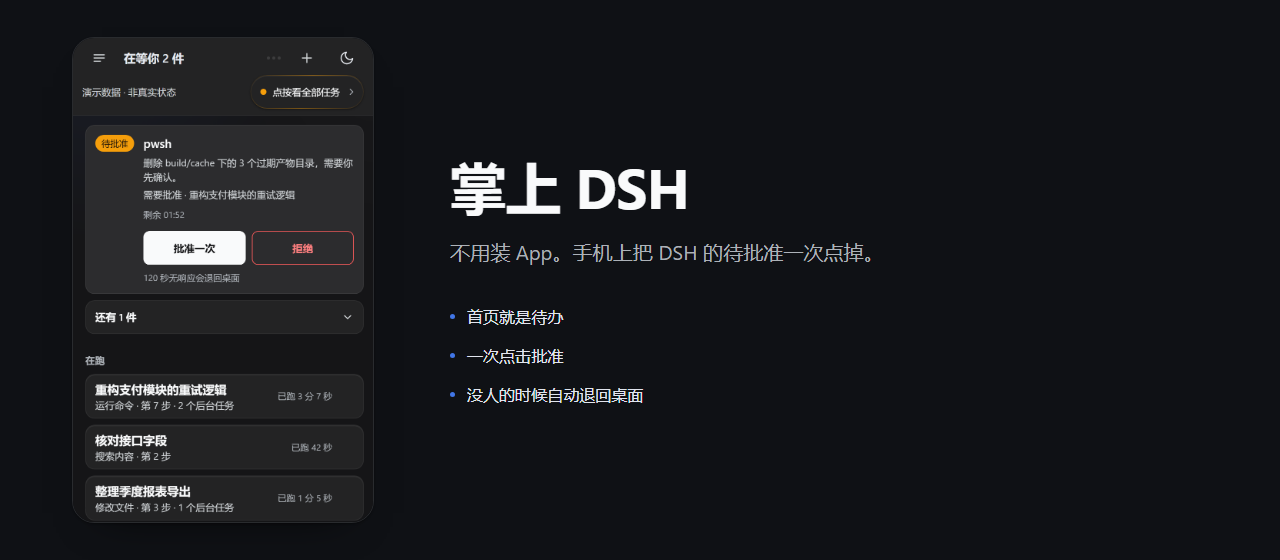
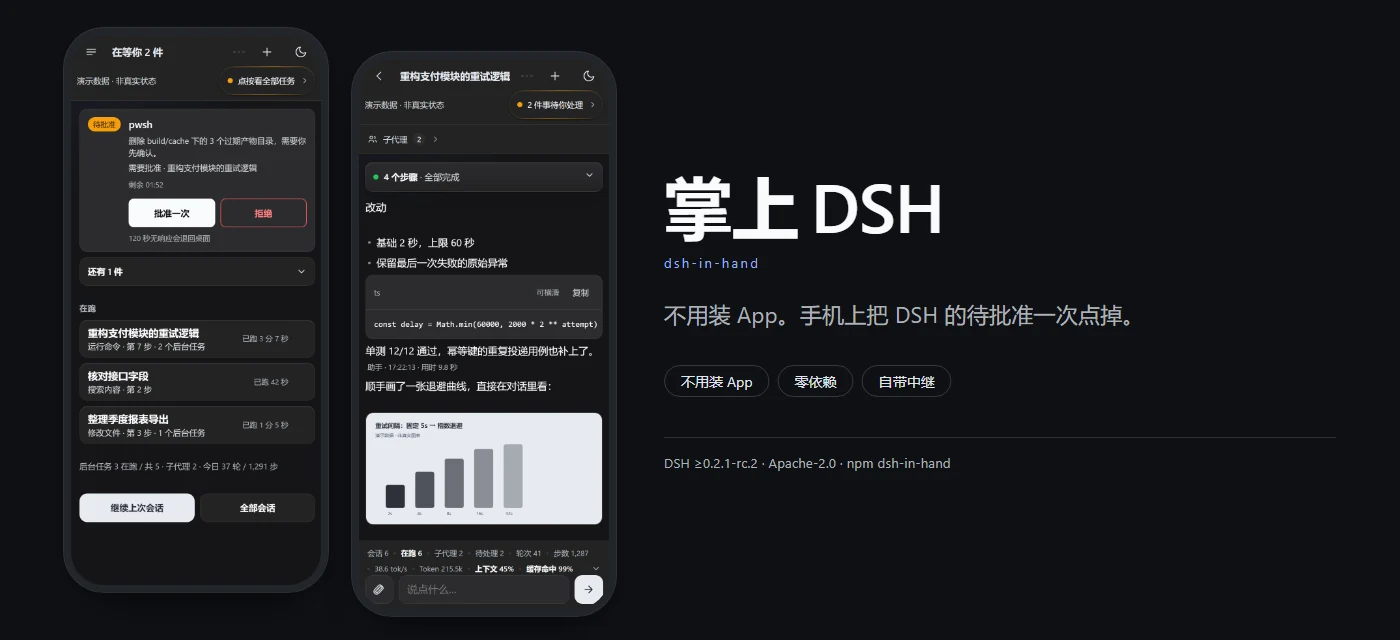
docs(readme): 首屏换双设备 hero（1400×640，明暗 × 中英四张）
旧 hero 是 1280×560 的「一张手机屏 + 三条圆点」，只演了一个场景，首屏立不住
「手机 / 不用装 App / 零依赖」这三个差异点。换成两块设备并排、错位 24px：

- 左：亮色首页（待批准卡 + 在跑列表），右：暗色会话（步骤、代码块、图表）
- 屏里仍是 `docs/screenshots/current/*.png` 真机截图（390×844 @DPR2），
  只在外层加 7px 外框 + 33px 内圆角 + 1px 边 + 一枚极浅投影，不修图不补字
- 右侧：`掌上 DSH` 字标（68/600）→ kicker → 定位句（22）→ 三枚事实药丸
  （不用装 App / 零依赖 / 自带中继）→ 1px 分隔线 → `DSH ≥0.2.1-rc.2 · Apache-2.0 · npm dsh-in-hand`
- 明暗各一套，中英各一套：README.en.md 之前借的是中文 hero，现在自己一份

`scripts/make-hero.mjs` 重写：真 Chrome + CDP，DPR2 渲染后 clip.scale=0.5 降采样；
自带 40 项自检（画布 1400×640 无滚动、两张截图都加载、设备坐标、标题一行、
定位句 ≤2 行、三枚药丸同一行且不出右边界、文字块垂直居中）。四张 webp 各 42–43KB。

README 里图片下面那行重复的定位句删掉——hero 里已经有了。

diff --git a/README.en.md b/README.en.md
@@ -4,12 +4,10 @@ English · [简体中文](README.md)
 
 <p align="center">
   <picture>
-    <source media="(prefers-color-scheme: dark)" srcset="docs/assets/hero-zh-dark.webp">
-    <img src="docs/assets/hero-zh-light.webp" width="100%" alt="DSH in Hand: a pending approval card on the left, the “no app to install” pitch on the right">
+    <source media="(prefers-color-scheme: dark)" srcset="docs/assets/hero-en-dark.webp">
+    <img src="docs/assets/hero-en-light.webp" width="100%" alt="DSH in Hand: on the left the light home screen with a pending approval card and the running list, on the right a dark session with steps, a code block and a chart; the copy reads “No app to install. One tap on your phone settles a DSH approval.”">
   </picture>
 </p>
-
-<p align="center">No app to install. One tap on your phone settles a DSH approval.</p>
 
 <p align="center">
   <a href="https://github.com/dingchenhui0618-arch/dsh-in-hand/releases/latest"><img alt="Latest release" src="https://img.shields.io/github/v/release/dingchenhui0618-arch/dsh-in-hand?display_name=tag&amp;sort=semver&amp;label=&amp;style=flat-square&amp;color=2ea44f"></a>

diff --git a/README.md b/README.md
@@ -5,11 +5,9 @@
 <p align="center">
   <picture>
     <source media="(prefers-color-scheme: dark)" srcset="docs/assets/hero-zh-dark.webp">
-    <img src="docs/assets/hero-zh-light.webp" width="100%" alt="掌上 DSH：左边是手机上的待批准卡片，右边是「不用装 App」的三行说明">
+    <img src="docs/assets/hero-zh-light.webp" width="100%" alt="掌上 DSH：左边亮色首页的「待批准」卡片与在跑列表，右边暗色会话里的步骤、代码块和图表；右侧一行写着「不用装 App。手机上把 DSH 的待批准一次点掉。」">
   </picture>
 </p>
-
-<p align="center">不用装 App。手机上把 DSH 的待批准一次点掉。</p>
 
 <p align="center">
   <a href="https://github.com/dingchenhui0618-arch/dsh-in-hand/releases/latest"><img alt="最新版本" src="https://img.shields.io/github/v/release/dingchenhui0618-arch/dsh-in-hand?display_name=tag&amp;sort=semver&amp;label=&amp;style=flat-square&amp;color=2ea44f"></a>
